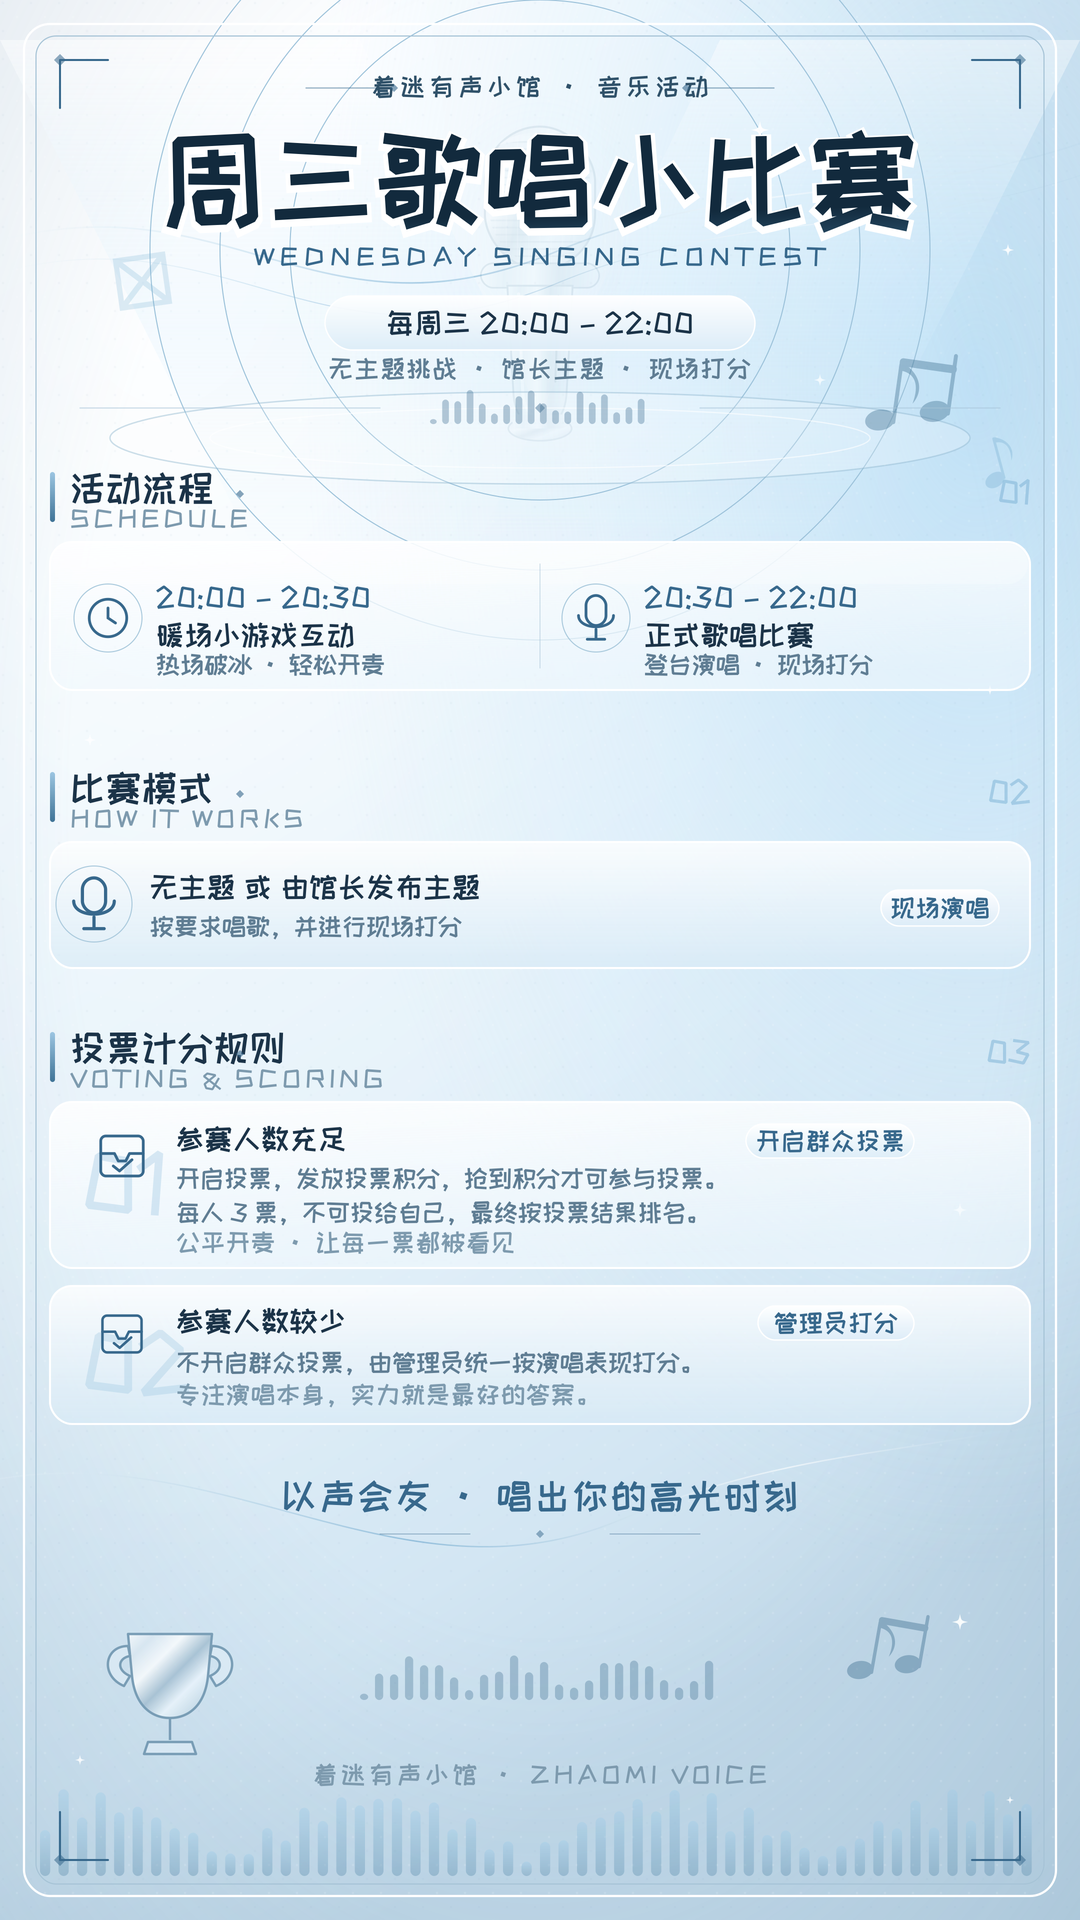
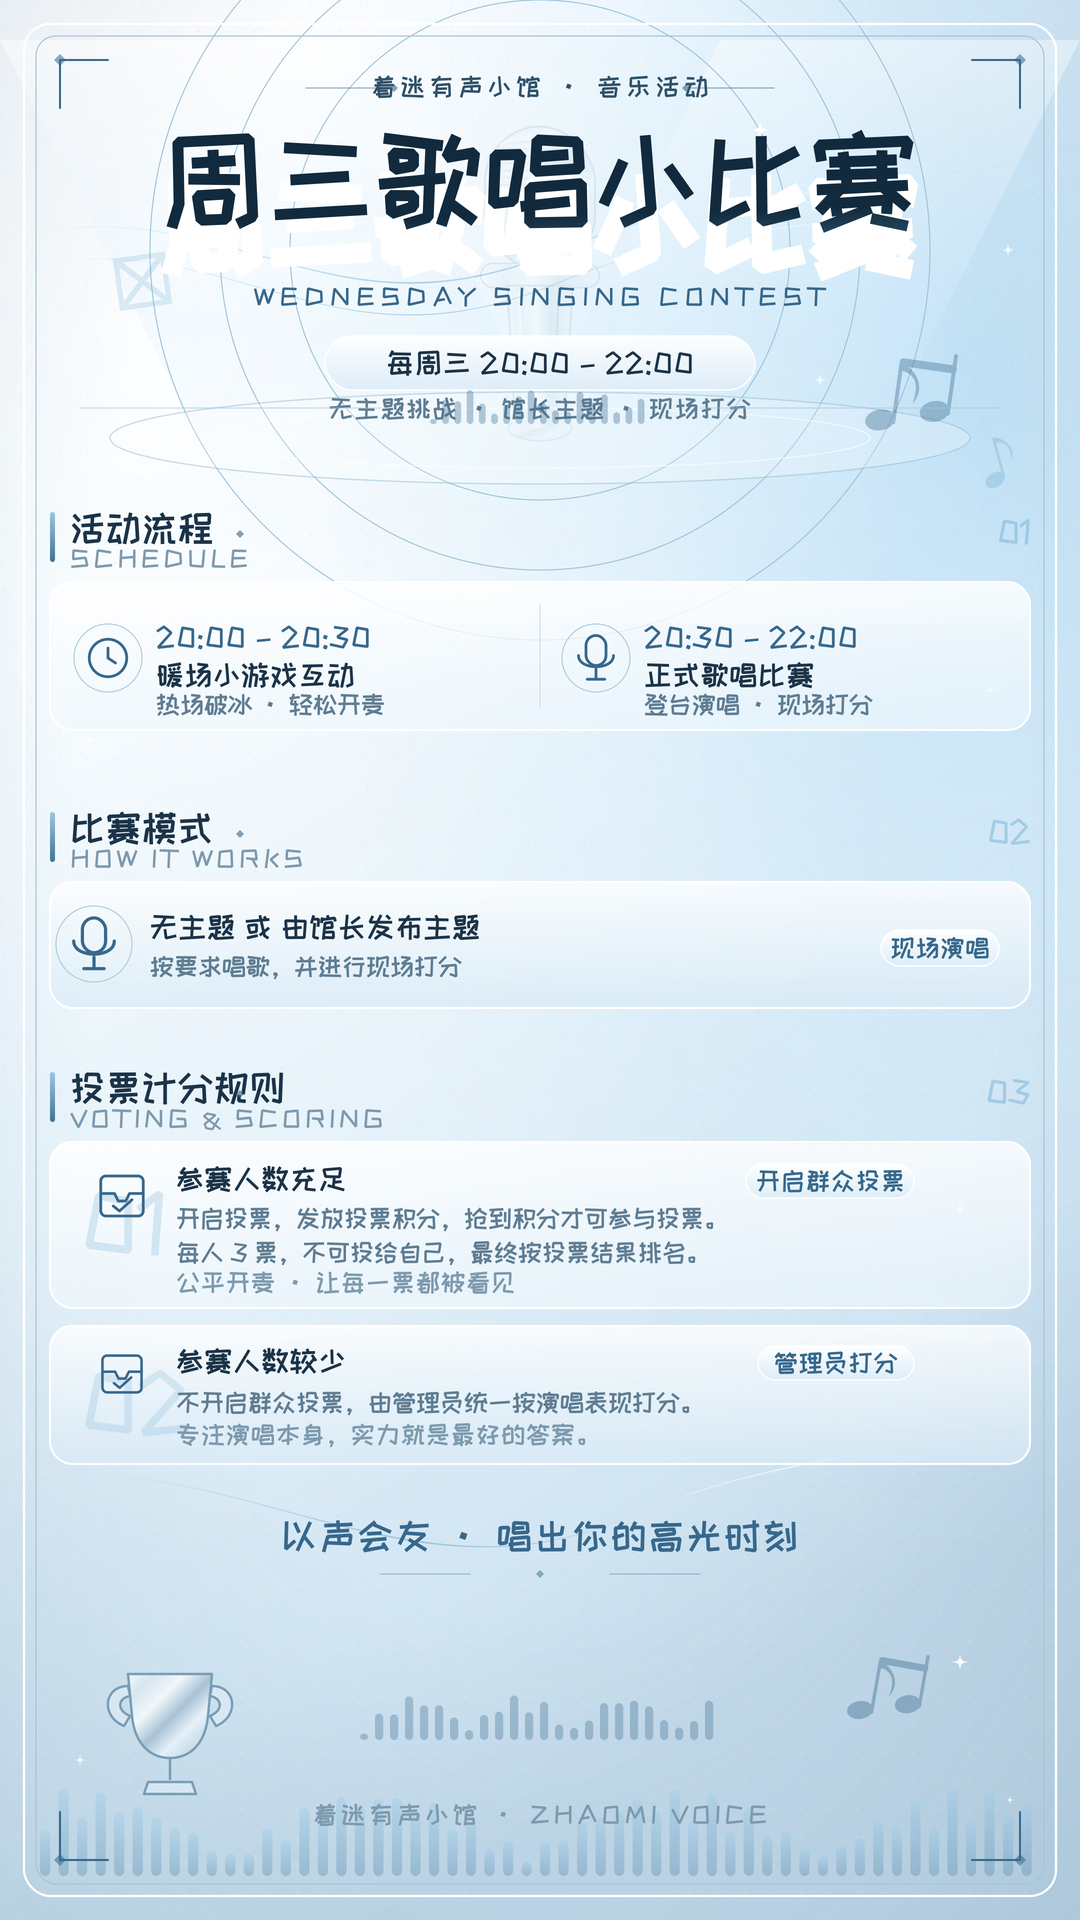
音浪榜：等级特权→权益、胶囊/名字/描述对齐均匀、音浪兑换价格调整

diff --git a/poster/rules-posters/generate.py b/poster/rules-posters/generate.py
@@ -690,7 +690,7 @@ def build_main():
     o.append(T(870, 996, "KEEP  THE  GROOVE", size=26, fill=SOFT, weight=600, anchor="middle", ls=4, op=0.8))
 
     # ===== 三、等级称号 =====
-    ly = 1040
+    ly = 1000
     o.append(section(50, ly, "等级称号", "LEVEL TITLES", width=980, num="03"))
     card_y = ly + 42
     o.append(rect(50, card_y, 980, 376, 22, fill="url(#glass)", op=1, stroke=WHITE, sw=2))
@@ -726,8 +726,8 @@ def build_main():
             o.append(sparkle(1010, y + 25, 8, fill=WHITE, op=0.95))
 
     # ===== 四、等级特权 =====
-    py = 1492
-    o.append(section(50, py, "等级特权", "LEVEL PRIVILEGES", width=980, num="04"))
+    py = 1470
+    o.append(section(50, py, "等级权益", "LEVEL BENEFITS", width=980, num="04"))
     card_y = py + 42
     o.append(rect(50, card_y, 980, 320, 22, fill="url(#glassDeep)", op=1, stroke=WHITE, sw=2))
     perks = [
@@ -741,24 +741,24 @@ def build_main():
     ry = card_y + 12
     for i, (lv, name, desc) in enumerate(perks):
         y = ry + i * 50
-        o.append(rect(66, y, 70, 32, 16, fill="url(#levelGrad6)" if i == 5 else "url(#levelGrad)", op=0.95))
-        o.append(T(101, y + 23, lv, size=26, fill=WHITE, weight=700, anchor="middle"))
-        o.append(T(158, y + 24, name, size=26, fill=INK, weight=700, ls=1))
-        o.append(T(330, y + 24, desc, size=26, fill=MUT, weight=400))
-        o.append(icon_shield(1004, y + 16, 0.7, c=ICE))
+        o.append(rect(84, y + 4, 72, 36, 18, fill="url(#levelGrad6)" if i == 5 else "url(#levelGrad)", op=0.95, stroke=WHITE, sw=1.2))
+        o.append(T(120, y + 28, lv, size=26, fill=WHITE, weight=700, anchor="middle"))
+        o.append(T(194, y + 28, name, size=30, fill=INK, weight=700, font=SERIF, ls=2))
+        o.append(T(380, y + 28, desc, size=26, fill=MUT, weight=400, ls=0.5))
+        o.append(icon_shield(1000, y + 28, 0.7, c=ICE))
         if i < 5:
-            o.append(line(66, y + 44, 1014, y + 44, stroke=LINE, sw=0.8, op=0.35))
+            o.append(line(84, y + 46, 1040, y + 46, stroke=LINE, sw=0.8, op=0.35))
 
     # ===== 五、积分兑换 =====
-    ey = 1892
-    o.append(section(50, ey, "积分兑换", "POINTS STORE", width=980, num="05"))
+    ey = 1880
+    o.append(section(50, ey, "音浪兑换", "YINLANG STORE", width=980, num="05"))
     card_y = ey + 42
     o.append(rect(50, card_y, 980, 352, 22, fill="url(#glass)", op=1, stroke=WHITE, sw=2))
     items = [
-        ("小馆称号前缀 · 15天", "50"),
-        ("小馆六字前缀 · 15天", "80"),
-        ("小馆称号前缀 · 30天", "90"),
-        ("小馆六字前缀 · 30天", "145"),
+        ("小馆称号前缀 · 15天", "90"),
+        ("小馆六字前缀 · 15天", "120"),
+        ("小馆称号前缀 · 30天", "150"),
+        ("小馆六字前缀 · 30天", "200"),
         ("小馆永久六字前缀", "688"),
         ("小馆活动冠名权", "150音浪/次"),
         ("周三 / 周日定制主题", "80音浪/次"),
@@ -783,10 +783,10 @@ def build_main():
     note_y = card_y + 12 + 5 * 58 + 8
     o.append(rect(66, note_y, 948, 34, 10, fill=ICE_DEEP, op=0.08))
     o.append(icon_info(86, note_y + 17, 0.65, c=ICE_DEEP))
-    o.append(T(112, note_y + 24, "说明：小馆等级前缀同步主群，六字前缀不同步。", size=26, fill=MUT, weight=500))
+    o.append(T(112, note_y + 24, "说明：小馆前缀均同步主群。音浪兑换扣除相应音浪，注意可能导致等级下降～", size=26, fill=MUT, weight=500))
 
     # ===== 底部二维码 =====
-    qy = 2292
+    qy = 2284
     o.append(rect(50, qy, 980, 228, 24, fill="url(#glassDeep)", op=1, stroke=WHITE, sw=2))
     o.append(rect(66, qy + 12, 208, 204, 18, fill=WHITE, op=0.95, stroke=ICE, sw=1.4))
     qr_data = base64.b64encode((ASSETS / "qr_yinlang.png").read_bytes()).decode()
@@ -843,11 +843,11 @@ def build_wednesday():
     o.append(diamond(686, 88, 4, fill=ICE_DEEP, op=0.6))
 
     # 主标题（花字艺术字体）
-    o.append(T(540, 226, "周三歌唱小比赛", size=116, fill=WHITE, weight=400, anchor="middle", font=ART_FUN, ls=2, stroke=WHITE, sw=9))
+    o.append(T(540, 266, "周三歌唱小比赛", size=116, fill=WHITE, weight=400, anchor="middle", font=ART_FUN, ls=2, stroke=WHITE, sw=9))
     o.append(T(540, 223, "周三歌唱小比赛", size=116, fill="url(#titleGrad)", weight=400, anchor="middle", font=ART_FUN, ls=2))
-    o.append(T(540, 266, "WEDNESDAY  SINGING  CONTEST", size=26, fill=ICE_DEEP, weight=700, anchor="middle", ls=6))
-    o.append(pill(540, 296, 430, 54, "每周三  20:00 – 22:00", size=30, color=INK, weight=700, ls=1))
-    o.append(T(540, 378, "无主题挑战  ·  馆长主题  ·  现场打分", size=26, fill=MUT, weight=500, anchor="middle", ls=2))
+    o.append(T(540, 306, "WEDNESDAY  SINGING  CONTEST", size=26, fill=ICE_DEEP, weight=700, anchor="middle", ls=6))
+    o.append(pill(540, 336, 430, 54, "每周三  20:00 – 22:00", size=30, color=INK, weight=700, ls=1))
+    o.append(T(540, 418, "无主题挑战  ·  馆长主题  ·  现场打分", size=26, fill=MUT, weight=500, anchor="middle", ls=2))
 
     # 分隔
     o.append(line(80, 408, 380, 408, stroke=LINE, sw=1.2, op=0.55))
@@ -856,7 +856,7 @@ def build_wednesday():
     o.append(diamond(540, 408, 5, fill=ICE_DEEP, op=0.45))
 
     # ===== 活动流程 =====
-    sy = 500
+    sy = 540
     o.append(section(50, sy, "活动流程", "SCHEDULE", width=980, num="01"))
     card_y = sy + 42
     o.append(rect(50, card_y, 980, 148, 22, fill="url(#glass)", op=1, stroke=WHITE, sw=2))
@@ -876,7 +876,7 @@ def build_wednesday():
             o.append(line(540, card_y + 22, 540, card_y + 126, stroke=LINE, sw=1, op=0.5))
 
     # ===== 比赛模式 =====
-    my = 800
+    my = 840
     o.append(section(50, my, "比赛模式", "HOW IT WORKS", width=980, num="02"))
     card_y = my + 42
     o.append(rect(50, card_y, 980, 126, 22, fill="url(#glassDeep)", op=1, stroke=WHITE, sw=2))
@@ -887,7 +887,7 @@ def build_wednesday():
     o.append(pill(940, card_y + 48, 118, 36, "现场演唱", size=26, color=ICE_DEEP))
 
     # ===== 投票计分规则 =====
-    vy = 1060
+    vy = 1100
     o.append(section(50, vy, "投票计分规则", "VOTING & SCORING", width=980, num="03"))
 
     # 卡 1
@@ -911,17 +911,17 @@ def build_wednesday():
     o.append(T(176, c2y + 86, "不开启群众投票，由管理员统一按演唱表现打分。", size=26, fill=MUT))
     o.append(T(176, c2y + 118, "专注演唱本身，实力就是最好的答案。", size=26, fill=SOFT, ls=1))
 
-    o.append(T(540, 1510, "以声会友 · 唱出你的高光时刻", size=38, fill=ICE_DEEP, weight=700, anchor="middle", font=SERIF, ls=3))
-    o.append(line(380, 1534, 470, 1534, stroke=ICE_DEEP, sw=1, op=0.4))
-    o.append(line(610, 1534, 700, 1534, stroke=ICE_DEEP, sw=1, op=0.4))
-    o.append(diamond(540, 1534, 4, fill=ICE_DEEP, op=0.5))
+    o.append(T(540, 1550, "以声会友 · 唱出你的高光时刻", size=38, fill=ICE_DEEP, weight=700, anchor="middle", font=SERIF, ls=3))
+    o.append(line(380, 1574, 470, 1574, stroke=ICE_DEEP, sw=1, op=0.4))
+    o.append(line(610, 1574, 700, 1574, stroke=ICE_DEEP, sw=1, op=0.4))
+    o.append(diamond(540, 1574, 4, fill=ICE_DEEP, op=0.5))
 
     # 底部
-    o.append(trophy(170, 1684, 1.0, op=0.75))
-    o.append(note(860, 1670, 1.0, fill=ICE_DEEP, op=0.4, rot=10, double=True))
-    o.append(sparkle(960, 1622, 8, fill=WHITE, op=0.9))
-    o.append(wave_bars(360, 1654, 360, 46, n=24, fill=ICE_DEEP, op=0.32))
-    o.append(T(540, 1784, "着迷有声小馆  ·  ZHAOMI  VOICE", size=26, fill=SOFT, weight=600, anchor="middle", ls=4))
+    o.append(trophy(170, 1724, 1.0, op=0.75))
+    o.append(note(860, 1710, 1.0, fill=ICE_DEEP, op=0.4, rot=10, double=True))
+    o.append(sparkle(960, 1662, 8, fill=WHITE, op=0.9))
+    o.append(wave_bars(360, 1694, 360, 46, n=24, fill=ICE_DEEP, op=0.32))
+    o.append(T(540, 1824, "着迷有声小馆  ·  ZHAOMI  VOICE", size=26, fill=SOFT, weight=600, anchor="middle", ls=4))
 
     o.append(frame(W, H))
     o.append('</svg>')
